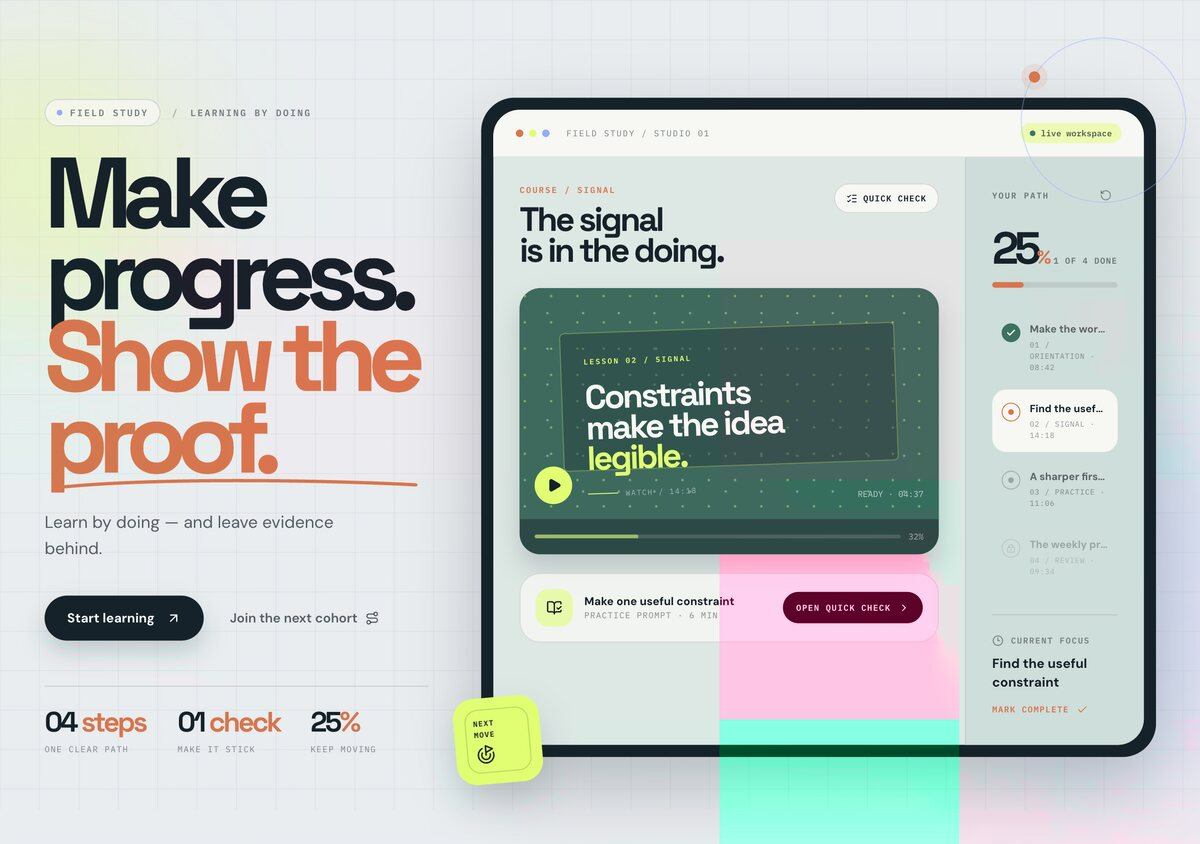
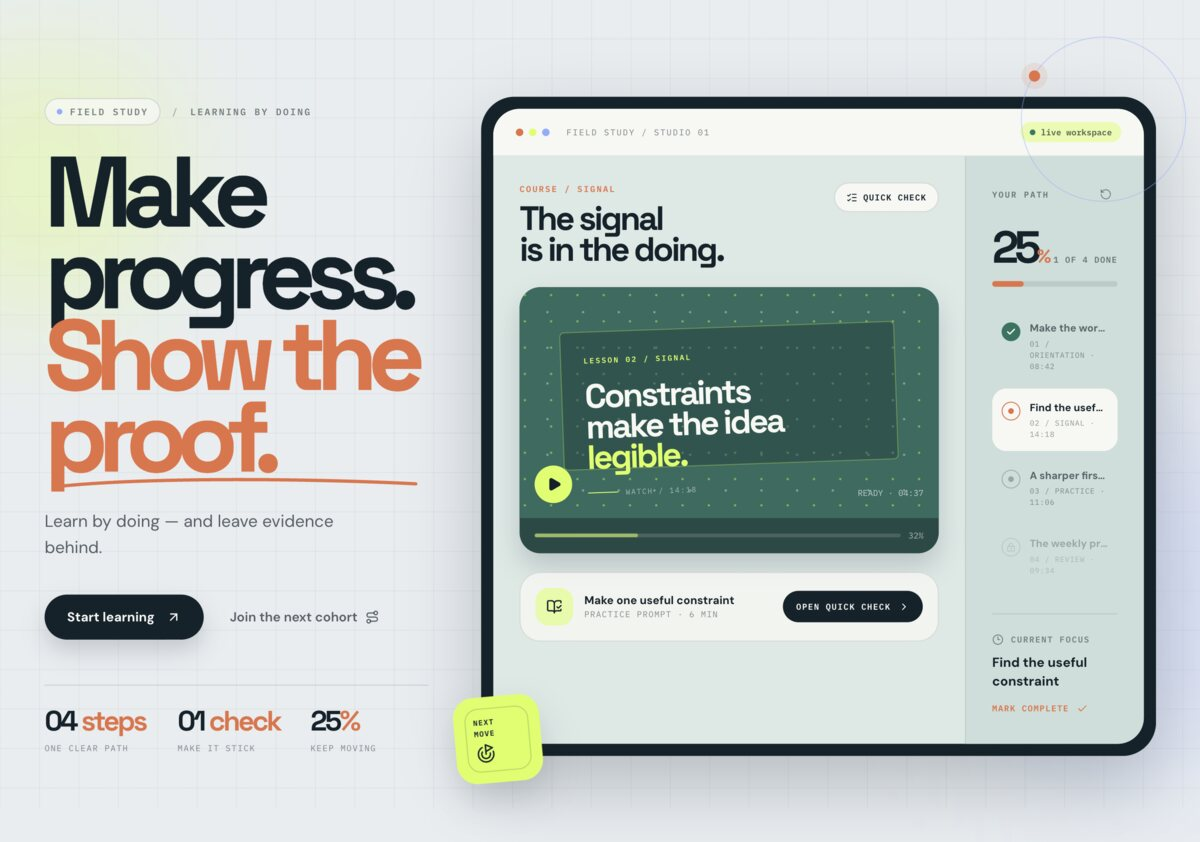
Update landing page assets and templates
Replit-Commit-Author: Agent

diff --git a/server/templates/desktop-landing.html b/server/templates/desktop-landing.html
@@ -6407,7 +6407,7 @@
               onclick="openShowcaseModal(this)"
             >
               <div class="showcase-visual">
-                <img src="/assets/images/project-learning-cover.jpg" alt="Course platform hero design" width="1200" height="844" loading="lazy" decoding="async">
+                <img src="/assets/images/project-learning-cover.jpg" alt="Course platform hero design" width="1200" height="842" loading="lazy" decoding="async">
               </div>
               <div class="showcase-body">
                 <!-- REPLACE: update category, name, problem, solution, tags, and result below -->
@@ -6443,7 +6443,7 @@
               onclick="openShowcaseModal(this)"
             >
               <div class="showcase-visual">
-                <img src="/assets/images/project-property-cover.jpg" alt="Property discovery app hero design" width="1200" height="750" loading="lazy" decoding="async">
+                <img src="/assets/images/project-property-cover.jpg" alt="Property discovery app hero design" width="1200" height="771" loading="lazy" decoding="async">
               </div>
               <div class="showcase-body">
                 <div class="showcase-category">Real Estate · iOS &amp; Android</div>
